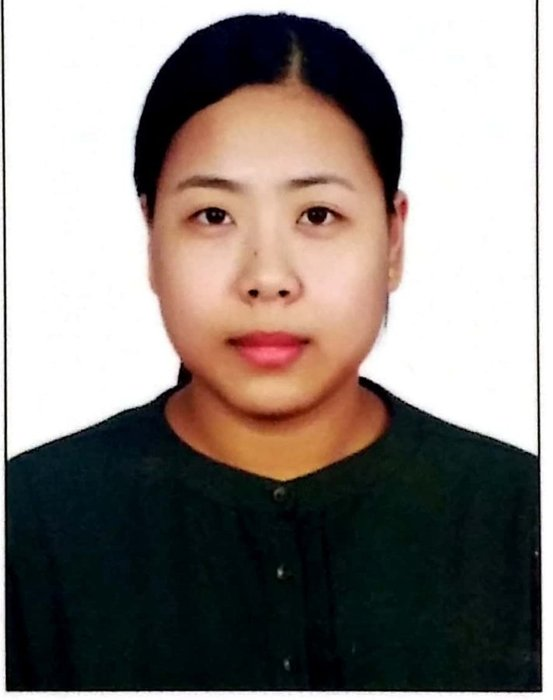
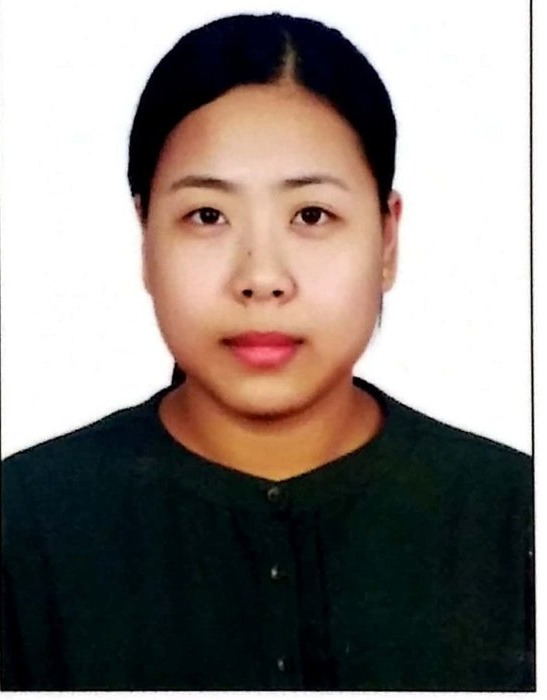
Show team photos in a portrait frame instead of small circles
Claude-Session: https://claude.ai/code/session_01EapaZWnTPPxRbekD6z5EQ4

diff --git a/assets/css/style.css b/assets/css/style.css
@@ -290,3 +290,9 @@ tr:last-child td { border-bottom: 0; }
 .photo-strip { display: grid; gap: 10px; grid-template-columns: repeat(4, 1fr); }
 .photo-strip img { width: 100%; aspect-ratio: 4 / 3; object-fit: cover; border-radius: 10px; display: block; }
 @media (max-width: 720px) { .photo-strip { grid-template-columns: repeat(2, 1fr); } }
+
+/* Team photos: rounded rectangles in a portrait frame, so heads are not clipped */
+.person-card .avatar { width: 84px; height: 105px; border-radius: 10px; object-position: 50% 20%; }
+.person-card .avatar.initials { height: 105px; }
+.avatar.lg { width: 104px; height: 130px; border-radius: 12px; object-position: 50% 20%; }
+.person-card { align-items: flex-start; }
